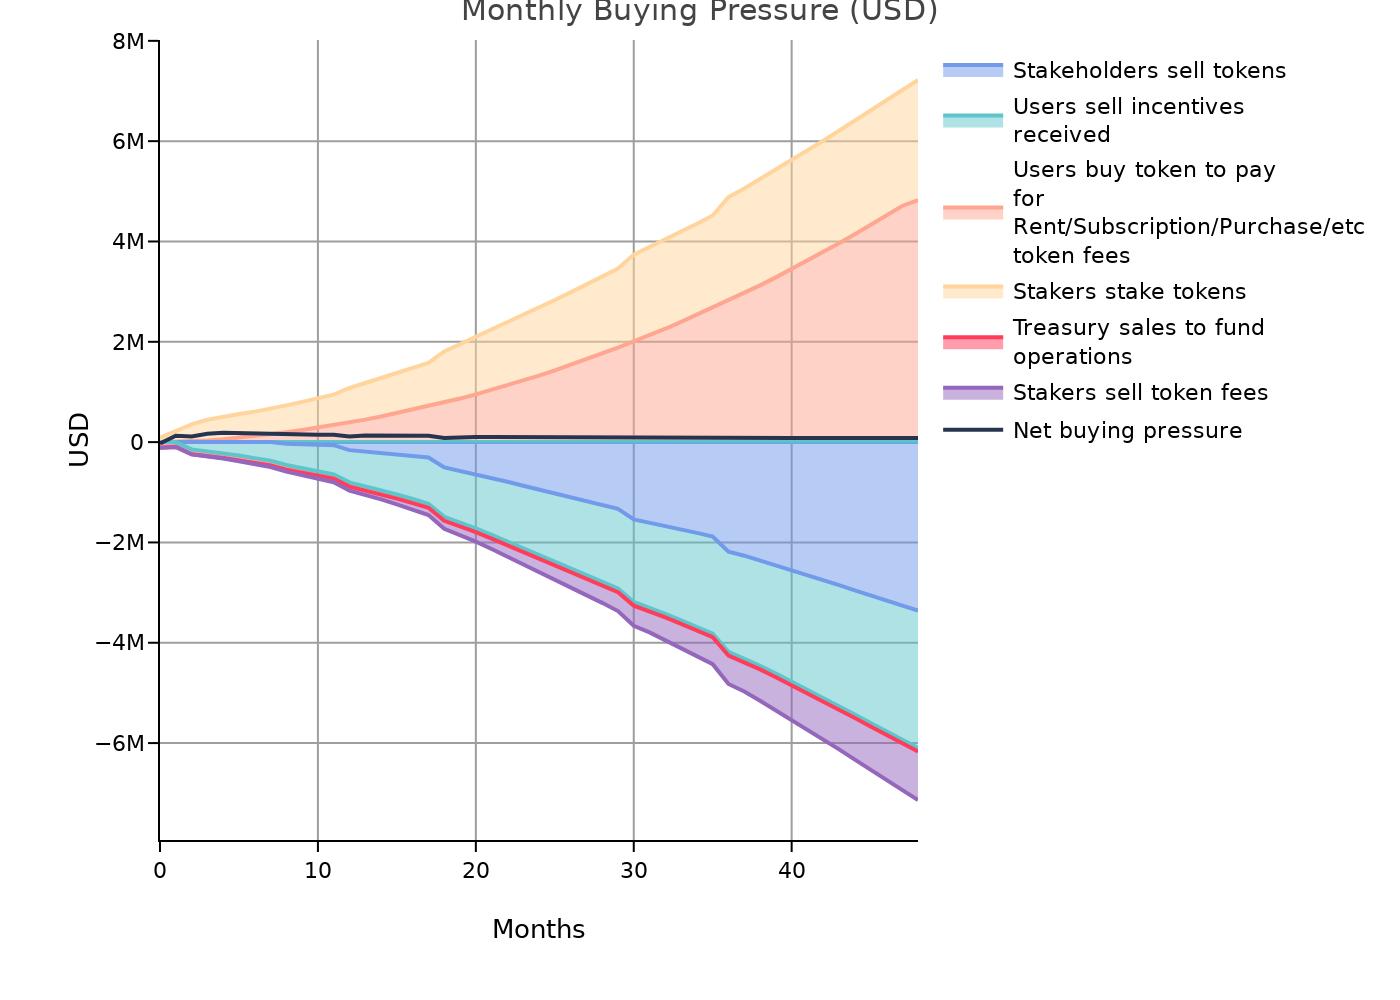
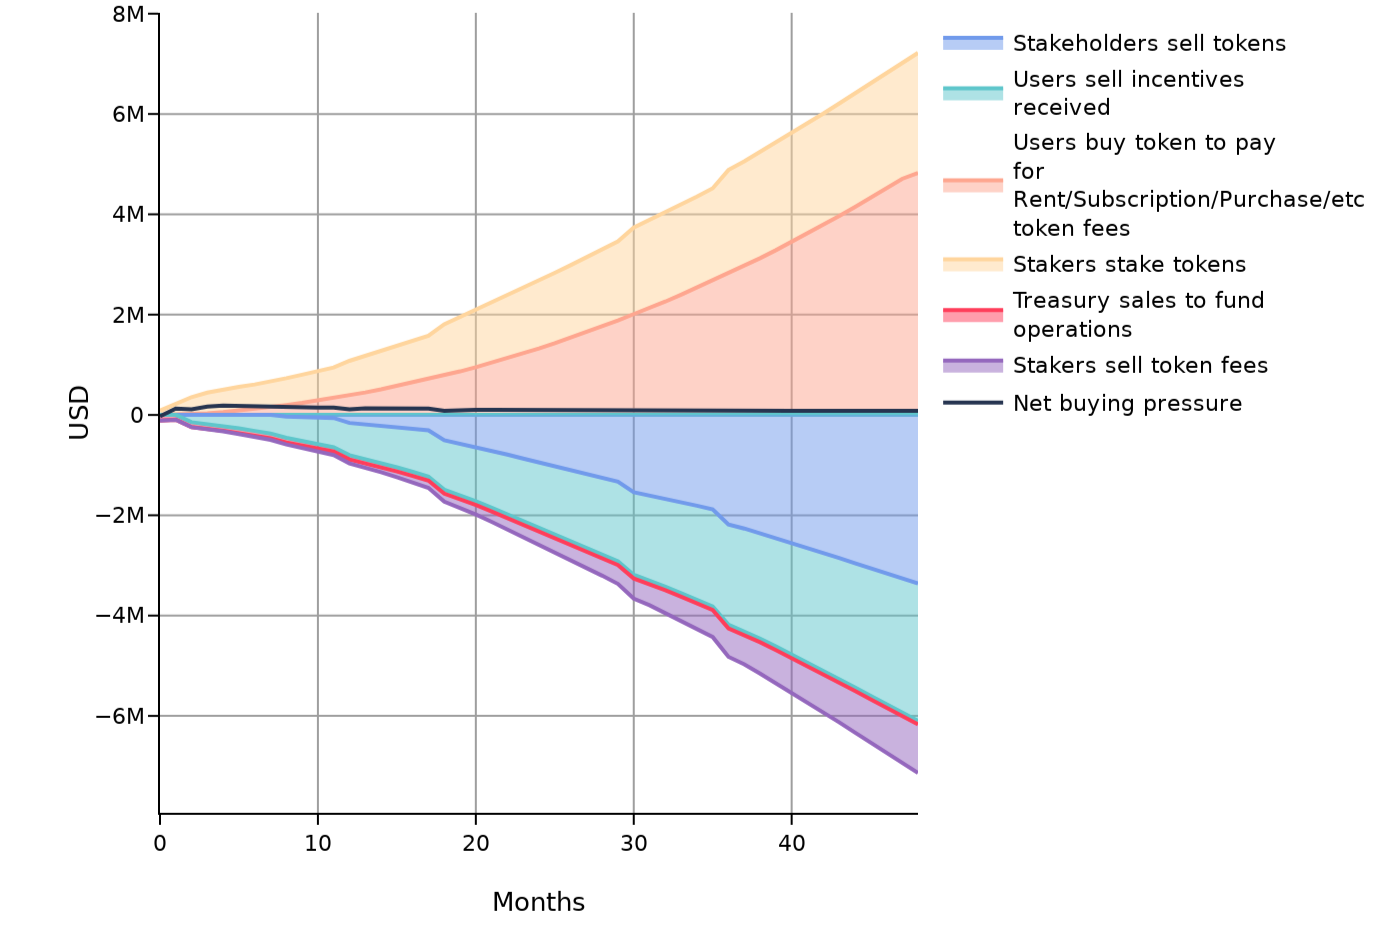
docs: improve charts qwuality

diff --git a/SEP/SEP-003/README.md b/SEP/SEP-003/README.md
@@ -174,7 +174,7 @@ Through governance, the community can influence aspects such as:
 
 ## 1.9 Projected Organic Growth of the Token Economy
 
-The features detailed above have been introduced into the [Space and Tokens simulation platform](https://cenit.finance) to project the evolution of the token economy over time. These projections focus on the organic growth of the token economy, that is, on the buying and selling pressure coming from protocol users, and not on speculative trading. The full simulation results are available [here](https://spaceandtokens.ai/simulation/71136d43-fa5e-4db2-958b-6f296a4a3265).
+The features detailed above have been introduced into the [Space and Tokens simulation platform](https://cenit.finance) to project the evolution of the token economy over time. These projections focus on the organic growth of the token economy, that is, on the buying and selling pressure coming from protocol users, and not on speculative trading. 
 
 The following chart illustrates the growth assumptions for rent/subscription/purchase services:
 
@@ -188,6 +188,7 @@ Based on the simulation, the MMC Token is projected to evolve in value as follow
 
 ![Token price](resources/token_price.png)
 
+### Monthly Buying Pressure (USD)
 ![Monthly buying pressure](resources/monthly_buying_pressure.png)
 
 ### Supply and inflation
@@ -195,6 +196,14 @@ Based on the simulation, the MMC Token is projected to evolve in value as follow
 ![Token supply](resources/token_supply.png)
 
 ![Inflation](resources/inflation.png)
+
+### Protocol fees
+
+The following chart showcases how the fees generated by the protocol are expected to evolve over time, and how they will be distributed.
+
+![Token fees](resources/protocol.png)
+
+By year 4, the protocol is expected to have generated a total value of approximately **$76,100,000** in fees, assuming an average fee rate of **5%**.
 
 ### Final Considerations
 
